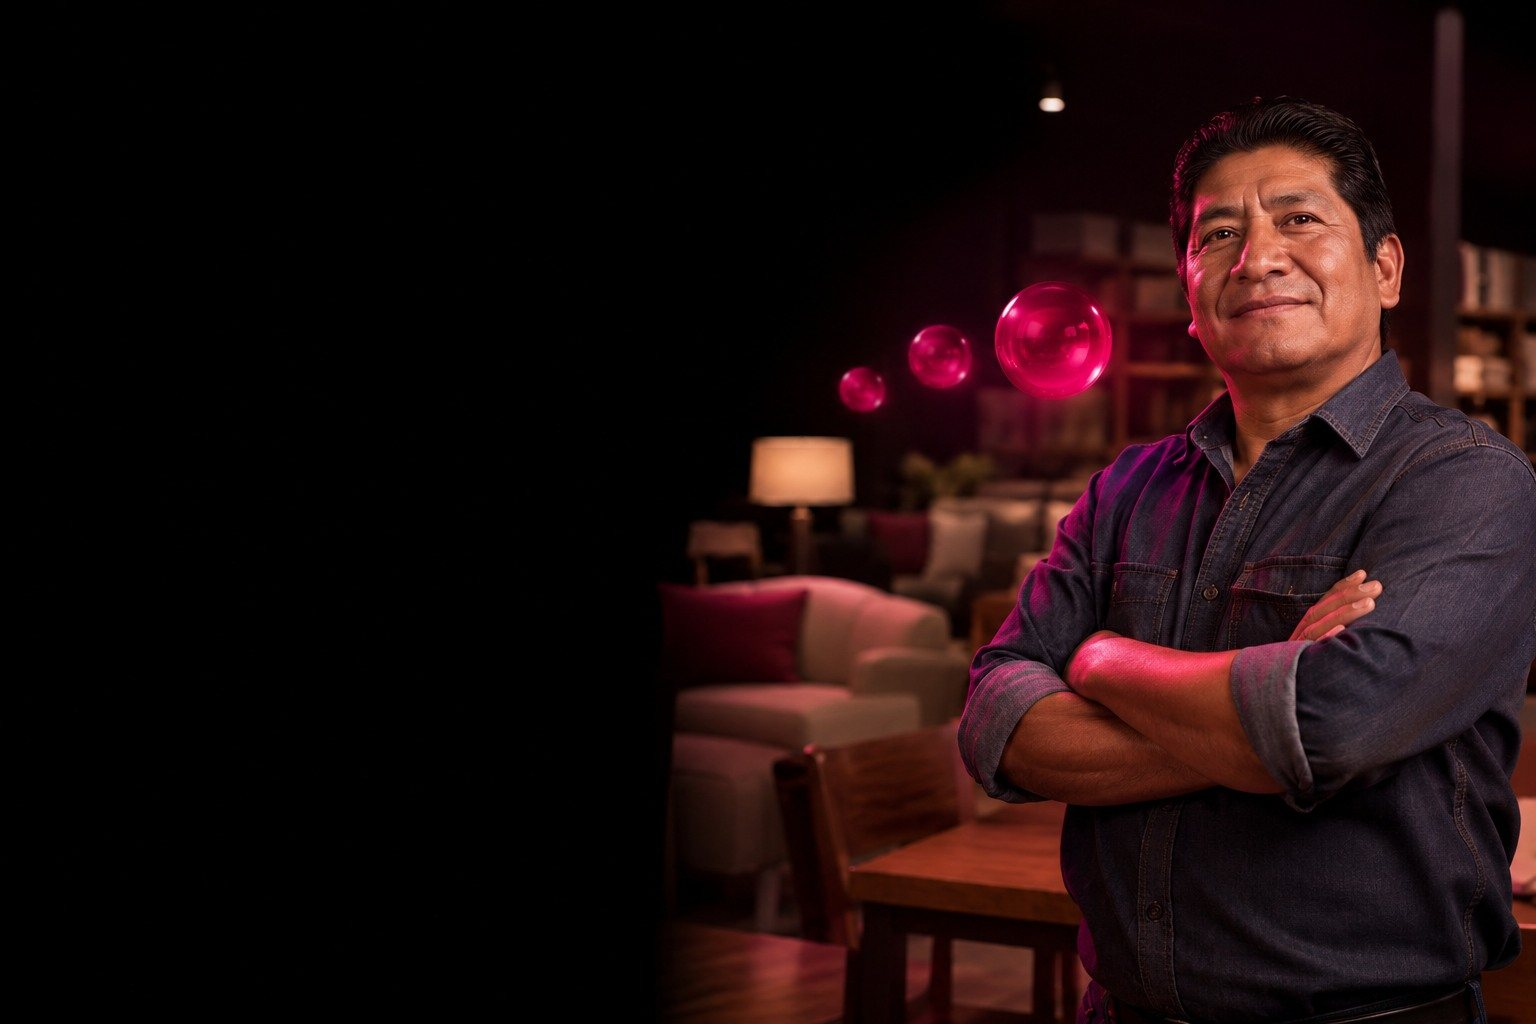
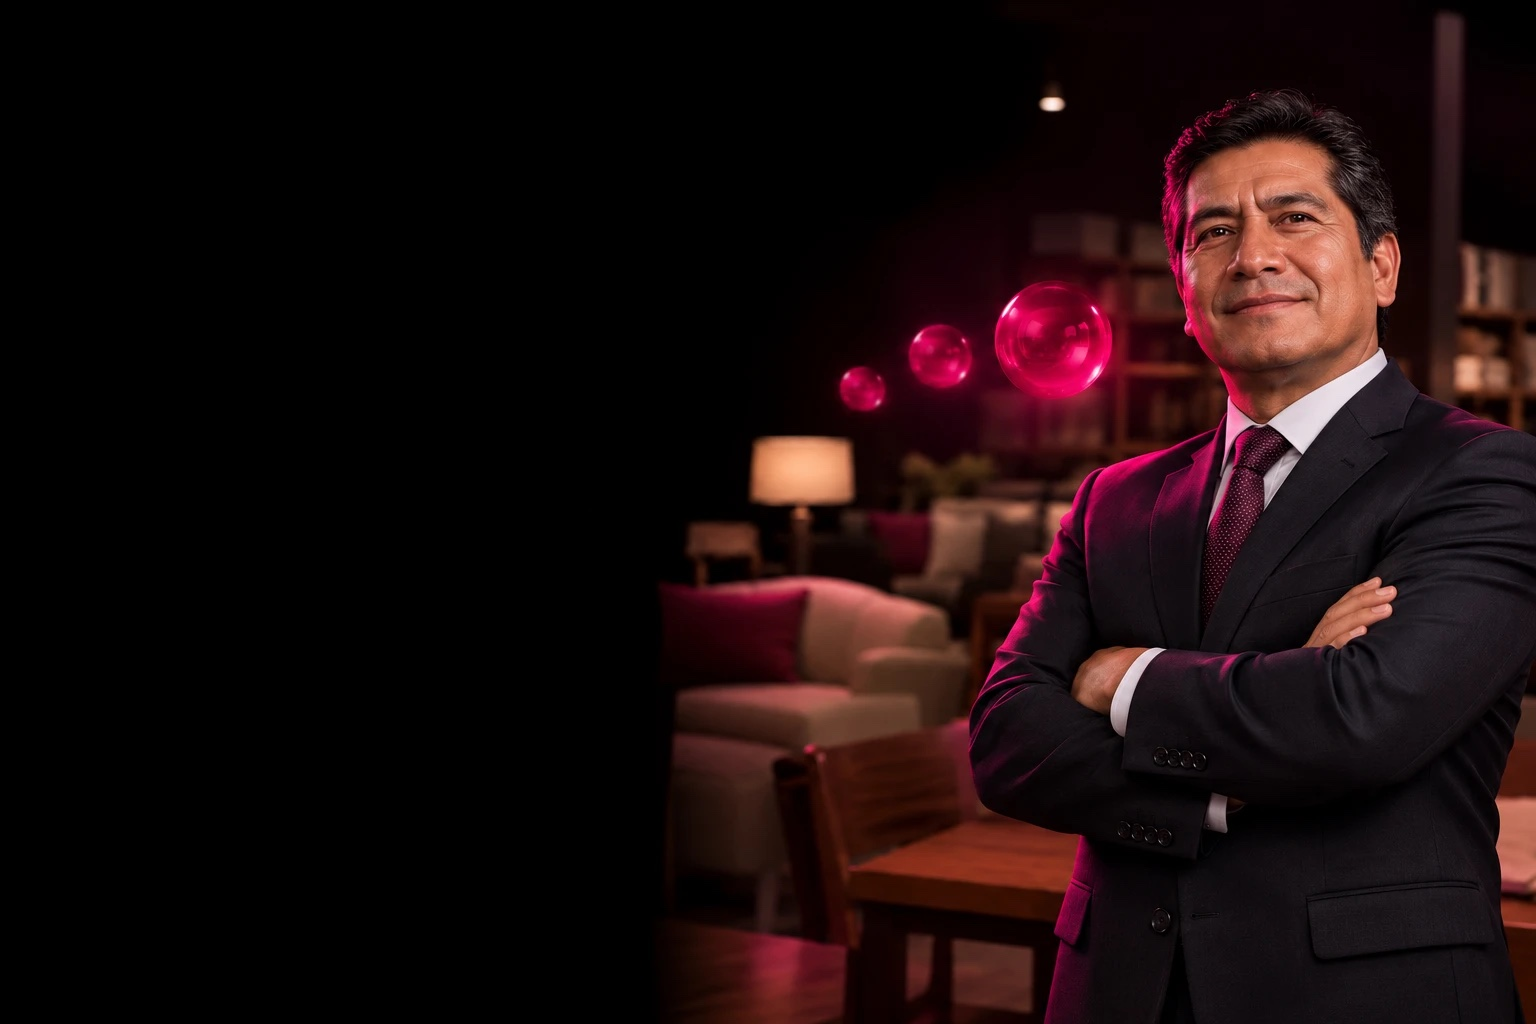
Nuevas imágenes: fondo de portada e imagen para redes
- img/2026-11-16_portada_hero.jpg: gerente de traje en tienda de muebles.
- img/og-ai-lab.jpg: misma escena con el logo AI Lab (vista previa al
  compartir en redes).
Las referencias llevan ?v=2 para que navegadores y redes no muestren la
versión anterior guardada en caché.

diff --git a/index.html b/index.html
@@ -12,7 +12,7 @@
 <meta property="og:site_name" content="AI Lab · PRA2MEDIA Group">
 <meta property="og:title" content="AI Lab · IA aplicada para empresas medianas de Latinoamérica">
 <meta property="og:description" content="Lo que cambió en inteligencia artificial esta semana y qué puede hacer su empresa con eso. Un laboratorio de PRA2MEDIA Group.">
-<meta property="og:image" content="https://ailab.pra2media.com/img/og-ai-lab.jpg">
+<meta property="og:image" content="https://ailab.pra2media.com/img/og-ai-lab.jpg?v=2">
 <meta property="og:locale" content="es_EC">
 <meta name="twitter:card" content="summary_large_image">
 <link rel="preconnect" href="https://fonts.googleapis.com">
@@ -33,7 +33,7 @@ input::placeholder{color:#B8A9AE}
 
   
   <section id="inicio" style="position: relative; border-radius: 28px; overflow: hidden; min-height: clamp(680px, 60vw, 880px); display: flex; flex-direction: column; background: #12050A">
-    <img src="img/2026-11-16_portada_hero.jpg" alt="" aria-hidden="true" style="position: absolute; inset: 0; width: 100%; height: 100%; object-fit: cover; object-position: 85% 30%; display: block">
+    <img src="img/2026-11-16_portada_hero.jpg?v=2" alt="" aria-hidden="true" style="position: absolute; inset: 0; width: 100%; height: 100%; object-fit: cover; object-position: 85% 30%; display: block">
     <div aria-hidden="true" style="position: absolute; inset: 0; background: linear-gradient(90deg, rgba(0,0,0,0.88) 0%, rgba(0,0,0,0.7) 45%, rgba(0,0,0,0.2) 100%)"></div>
     <div aria-hidden="true" style="position: absolute; inset: 0; background: linear-gradient(180deg, rgba(0,0,0,0) 60%, rgba(0,0,0,0.9) 100%)"></div>
 
@@ -388,7 +388,7 @@ input::placeholder{color:#B8A9AE}
 
   <!-- HERO: la promesa manda, la suscripción está aquí mismo -->
   <section id="inicio" style="position: relative; border-radius: 28px; overflow: hidden; min-height: clamp(680px, 60vw, 880px); display: flex; flex-direction: column; background: #12050A">
-    <img src="img/2026-11-16_portada_hero.jpg" alt="" aria-hidden="true" style="position: absolute; inset: 0; width: 100%; height: 100%; object-fit: cover; object-position: 85% 30%; display: block">
+    <img src="img/2026-11-16_portada_hero.jpg?v=2" alt="" aria-hidden="true" style="position: absolute; inset: 0; width: 100%; height: 100%; object-fit: cover; object-position: 85% 30%; display: block">
     <div aria-hidden="true" style="position: absolute; inset: 0; background: linear-gradient(90deg, rgba(0,0,0,0.88) 0%, rgba(0,0,0,0.7) 45%, rgba(0,0,0,0.2) 100%)"></div>
     <div aria-hidden="true" style="position: absolute; inset: 0; background: linear-gradient(180deg, rgba(0,0,0,0) 60%, rgba(0,0,0,0.9) 100%)"></div>
 

diff --git a/herramienta-ia.html b/herramienta-ia.html
@@ -12,7 +12,7 @@
 <meta property="og:site_name" content="AI Lab · PRA2MEDIA Group">
 <meta property="og:title" content="Herramienta IA · ¿Cuántas ventas está dejando ir? · AI Lab">
 <meta property="og:description" content="Calculadora de embudo de ventas: compare sus conversiones con su sector en 30 segundos.">
-<meta property="og:image" content="https://ailab.pra2media.com/img/og-ai-lab.jpg">
+<meta property="og:image" content="https://ailab.pra2media.com/img/og-ai-lab.jpg?v=2">
 <meta property="og:locale" content="es_EC">
 <meta name="twitter:card" content="summary_large_image">
 <link rel="preconnect" href="https://fonts.googleapis.com">
